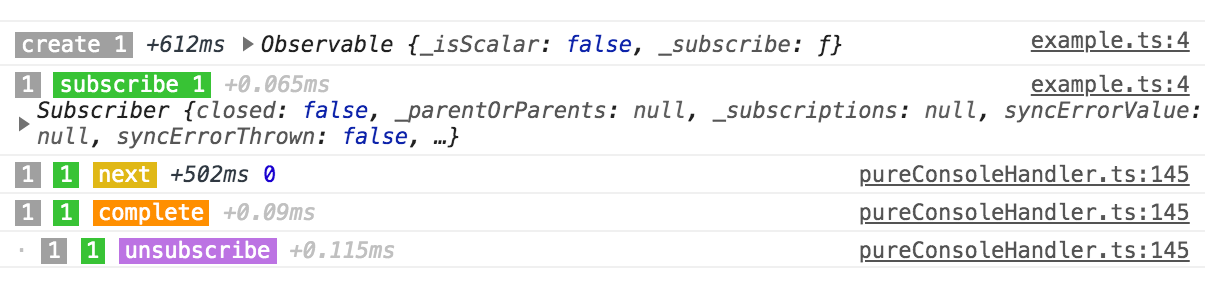
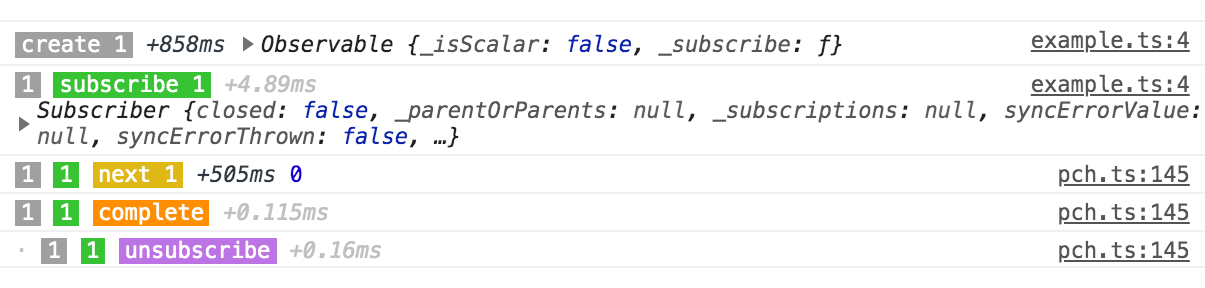
docs(readme): update example and screenshot

diff --git a/.github/README.md b/.github/README.md
@@ -92,7 +92,7 @@ test('timer', () => {
   expect(getMessages()).toMatchInlineSnapshot(`
     [create 1] +0ms [Observable]
     [create 1] [subscribe 1] +0ms [Subscriber]
-    [create 1] [subscribe 1] [next] +500ms 0
+    [create 1] [subscribe 1] [next 1] +500ms 0
     [create 1] [subscribe 1] [complete] +0ms
     · [create 1] [subscribe 1] [unsubscribe] +0ms
   `);
